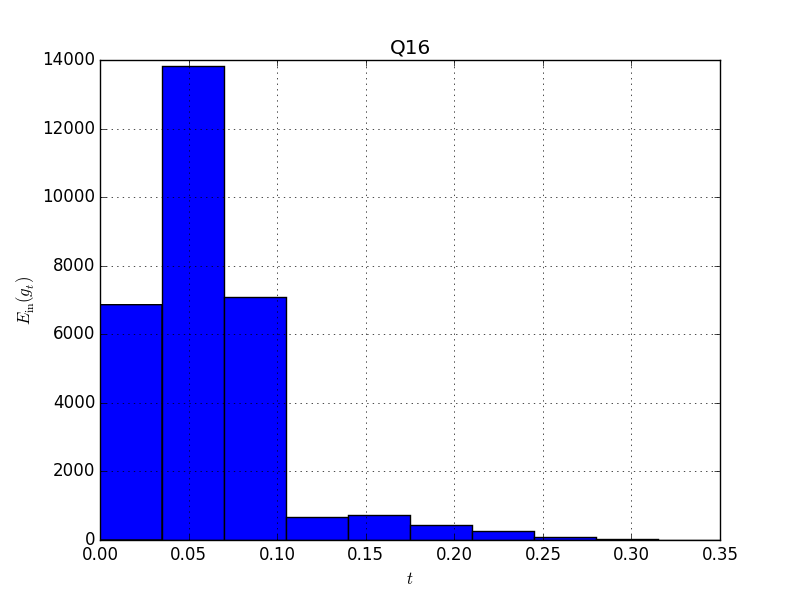
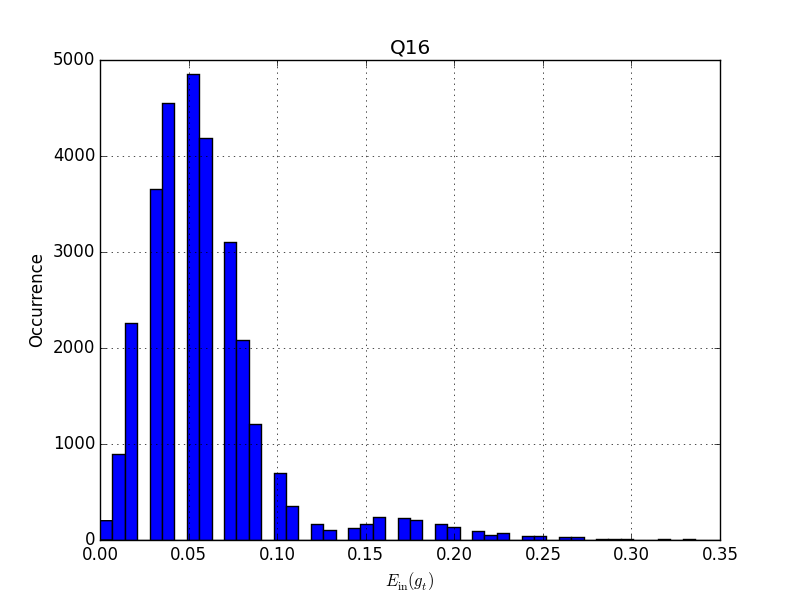
- HW7: version 1.0

diff --git a/Homework_7/ML_HW7_Programming/Q16/Q16.py b/Homework_7/ML_HW7_Programming/Q16/Q16.py
@@ -136,11 +136,11 @@ def bagAlg(T, N, DATA):
         treeList.append(deciTree)
     return np.array(treeList)
 
-def plotHist(x, xLabel, yLabel, title, width, isFloat):
+def plotFig(x, xLabel, yLabel, title, width, isFloat):
     plt.title(str(title))
     plt.xlabel(str(xLabel))
     plt.ylabel(str(yLabel))
-    if isFloat: plt.hist(x)
+    if isFloat: plt.hist(x, width)
     else:
         freq = np.bincount(x)
         freqIndex = np.nonzero(freq)[0]
@@ -172,7 +172,7 @@ def main():
         EgtList = np.append(EgtList, treeCalErr(xTra16, yTra16, bagAlg(T, Nprime, TRAIN16_DATA)))
     repeatList = np.array(range(T * REPEAT)) + 1
     
-    plotHist(EgtList, r"$t$", r'$E_{\mathrm{in}}(g_t)$', "Q16", 0.01, True)
+    plotFig(EgtList, r'$E_{\mathrm{in}}(g_t)$', 'Occurrence', "Q16", 50, True)
 
     t1 = time.time()
 

diff --git a/Homework_7/ML_HW7_Programming/Q18/Q18.py b/Homework_7/ML_HW7_Programming/Q18/Q18.py
@@ -136,7 +136,7 @@ def bagAlg(T, N, DATA):
         treeList.append(deciTree)
     return np.array(treeList)
 
-def plotHist(x, y, xLabel, yLabel, title, width, isFloat):
+def plotFig(x, y, xLabel, yLabel, title, width, isFloat):
     plt.figure(figsize=(18, 10))
     plt.title(str(title))
     plt.xlabel(str(xLabel))
@@ -189,7 +189,7 @@ def main():
         idx += 1
 
     repeatList = np.array(range(T * REPEAT)) + 1
-    plotHist(repeatList, EGtList, r"$t$", r'$E_{\mathrm{out}}(G_t)$', "Q18", 1, False)
+    plotFig(repeatList, EGtList, r"$t$", r'$E_{\mathrm{out}}(G_t)$', "Q18", 1, False)
 
     t1 = time.time()
 

diff --git a/Homework_7/ML_HW7_Programming/Q17/Q17.py b/Homework_7/ML_HW7_Programming/Q17/Q17.py
@@ -136,7 +136,7 @@ def bagAlg(T, N, DATA):
         treeList.append(deciTree)
     return np.array(treeList)
 
-def plotHist(x, y, xLabel, yLabel, title, width, isFloat):
+def plotFig(x, y, xLabel, yLabel, title, width, isFloat):
     plt.ylim(0, 0.01)
     plt.title(str(title))
     plt.xlabel(str(xLabel))
@@ -186,7 +186,7 @@ def main():
         idx += 1
 
     repeatList = np.array(range(T * REPEAT)) + 1
-    plotHist(repeatList, EGtList, r"$t$", r'$E_{\mathrm{in}}(G_t)$', "Q17", 1, False)
+    plotFig(repeatList, EGtList, r"$t$", r'$E_{\mathrm{in}}(G_t)$', "Q17", 1, False)
 
     t1 = time.time()
 

diff --git a/Homework_7/ML_HW7_Programming/Q19/Q19.py b/Homework_7/ML_HW7_Programming/Q19/Q19.py
@@ -138,7 +138,7 @@ def bagAlg(T, N, DATA):
         treeList.append(deciTree)
     return np.array(treeList)
 
-def plotHist(x, y, xLabel, yLabel, title, width, isFloat):
+def plotFig(x, y, xLabel, yLabel, title, width, isFloat):
     plt.figure(figsize=(18, 10))
     plt.title(str(title))
     plt.xlabel(str(xLabel))
@@ -187,7 +187,7 @@ def main():
 
     repeatList = np.array(range(T * REPEAT)) + 1
     
-    plotHist(repeatList, EGtList, r"$t$", r'$E_{\mathrm{in}}(G_t)$', "Q19", 1, False)
+    plotFig(repeatList, EGtList, r"$t$", r'$E_{\mathrm{in}}(G_t)$', "Q19", 1, False)
 
     t1 = time.time()
 

diff --git a/Homework_7/ML_HW7_Programming/Q20/Q20.py b/Homework_7/ML_HW7_Programming/Q20/Q20.py
@@ -138,7 +138,7 @@ def bagAlg(T, N, DATA):
         treeList.append(deciTree)
     return np.array(treeList)
 
-def plotHist(x, y, xLabel, yLabel, title, width, isFloat):
+def plotFig(x, y, xLabel, yLabel, title, width, isFloat):
     plt.figure(figsize=(18, 10))
     plt.title(str(title))
     plt.xlabel(str(xLabel))
@@ -192,7 +192,7 @@ def main():
 
     repeatList = np.array(range(T * REPEAT)) + 1
     
-    plotHist(repeatList, EGtList, r"$t$", r'$E_{\mathrm{in}}(G_t)$', "Q20", 1, False)
+    plotFig(repeatList, EGtList, r"$t$", r'$E_{\mathrm{in}}(G_t)$', "Q20", 1, False)
 
     t1 = time.time()
 
